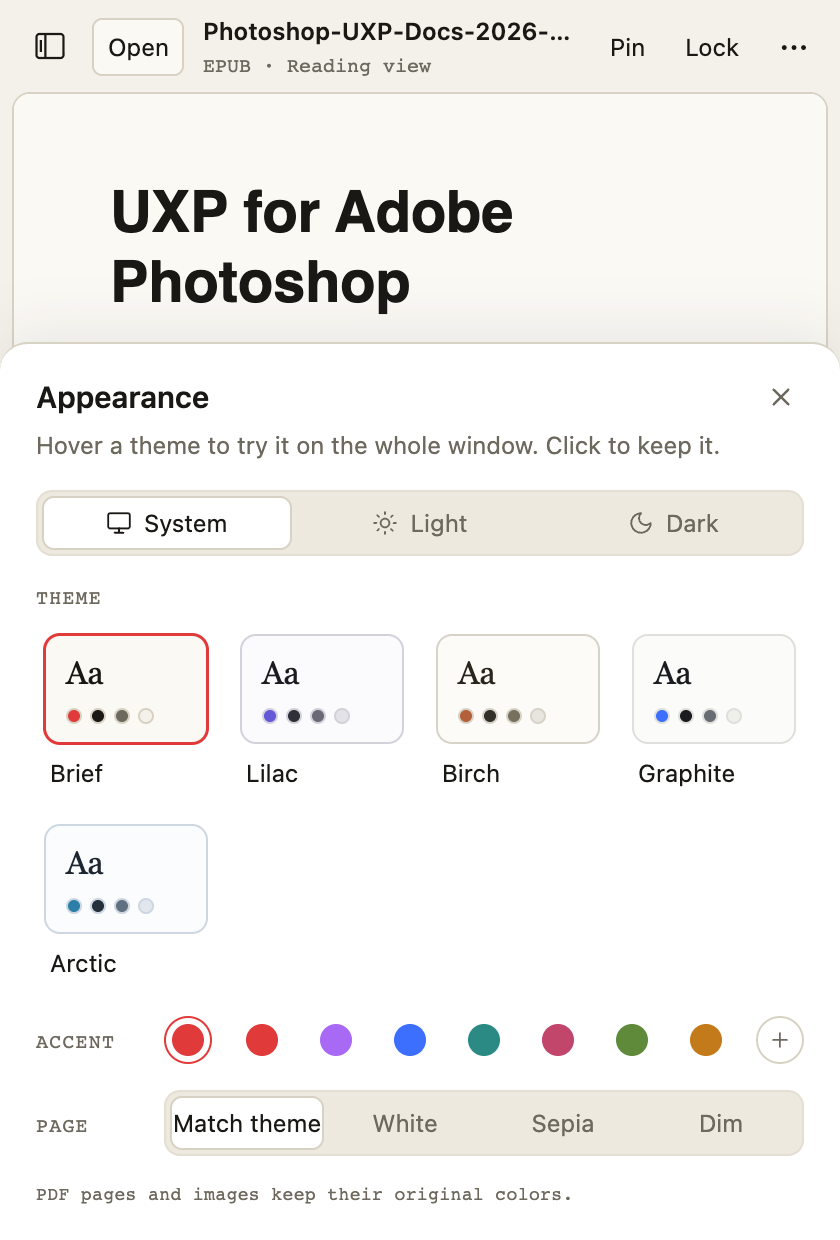
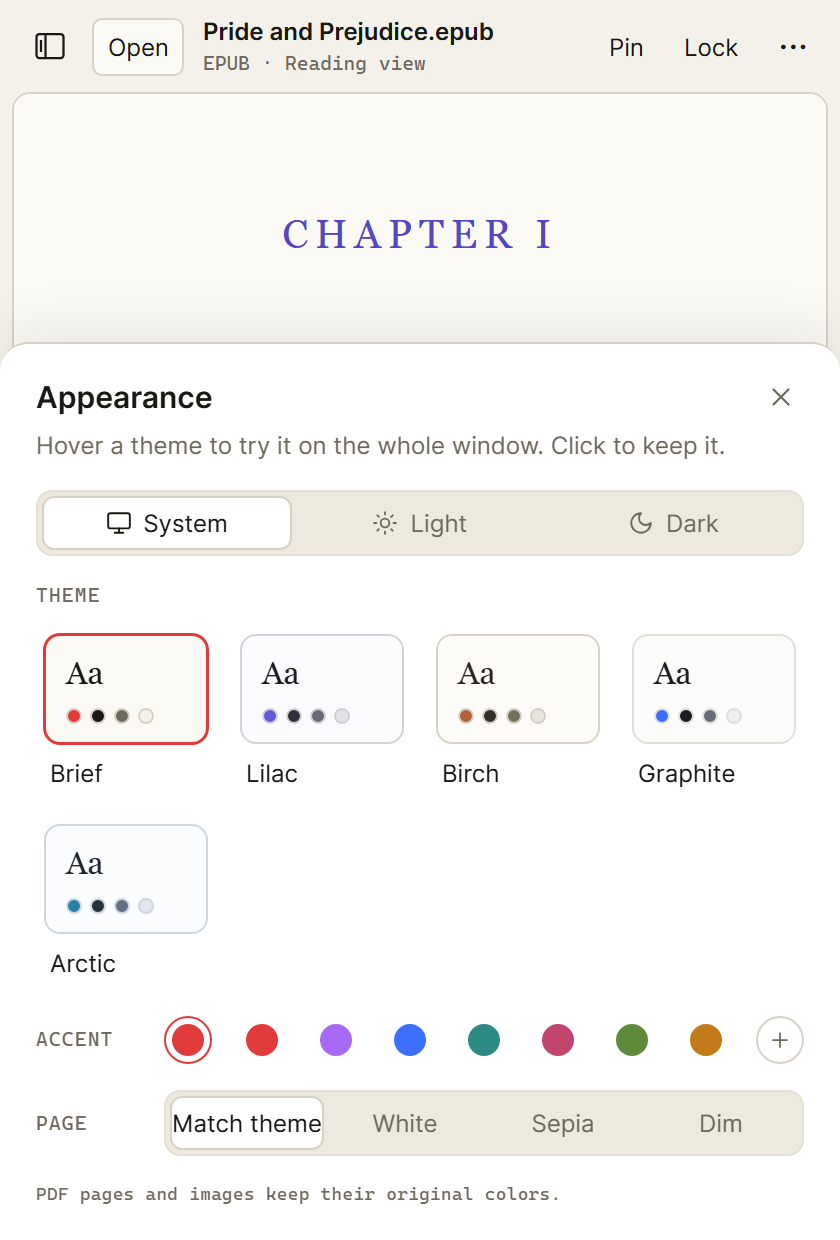
README: light-only media, real-content hero, drop the brand section
- Hero is now two real windows with documents open (a PDF spread beside the
  compact reader), composed by scripts/reshoot-media.mjs on white with square
  corners and 14 px gutters instead of a mock window in the design file.
- Every README image is light mode; dark variants, the wordmark banner and the
  separate spread/EPUB shots are removed.
- Brand section removed; the fonts note moves to the user guide.
- Media scripts take a public-domain EPUB book and fall back to Playwright's
  Chromium off macOS.

diff --git a/README.md b/README.md
@@ -1,12 +1,5 @@
 <p align="center">
-  <picture>
-    <source media="(prefers-color-scheme: dark)" srcset="docs/media/hero-dark.png">
-    <img src="docs/media/hero-light.png" alt="Hold My Brief open beside other work, showing a page of a 19th century print manual in a small reading window" width="880">
-  </picture>
-</p>
-
-<p align="center">
-  <img src="docs/media/wordmark.png" alt="Hold My Brief wordmark" width="880">
+  <img src="docs/media/hero.png" alt="Hold My Brief with a 19th century print manual open as a two-page spread, beside the compact window reading Pride and Prejudice" width="880">
 </p>
 
 <h1 align="center">Hold My Brief</h1>
@@ -89,41 +82,26 @@ computer.
 
 ## A closer look
 
-<p align="center">
-  <picture>
-    <source media="(prefers-color-scheme: dark)" srcset="docs/media/spread-dark.png">
-    <img src="docs/media/spread-light.png" alt="Pages 48 and 49 of the print manual shown side by side as an open book" width="880">
-  </picture>
-  <br><sub><b>Two-page view</b> lays out a PDF like an open book</sub>
-</p>
-
 <table>
   <tr>
-    <td align="center" width="33%"><img src="docs/media/reading-epub.png" alt="Reading an EPUB guide in the compact window"><br><sub><b>Reading a book</b> at the default 420 × 620 size</sub></td>
-    <td align="center" width="33%"><img src="docs/media/hand-tool.png" alt="A PDF page zoomed to 120% with the hand tool switched on in the floating zoom controls"><br><sub><b>Zoom in</b>, then drag the page with the hand tool</sub></td>
-    <td align="center" width="33%"><img src="docs/media/appearance.png" alt="The Appearance panel with theme cards"><br><sub><b>Appearance</b>: hover to preview, click to keep</sub></td>
+    <td align="center" width="50%"><img src="docs/media/hand-tool.png" alt="A PDF page zoomed to 120% with the hand tool switched on in the floating zoom controls"><br><sub><b>Zoom in</b>, then drag the page with the hand tool</sub></td>
+    <td align="center" width="50%"><img src="docs/media/appearance.png" alt="The Appearance panel with theme cards over a book"><br><sub><b>Appearance</b>: hover to preview, click to keep</sub></td>
   </tr>
 </table>
 
 <p align="center">
-  <picture>
-    <source media="(prefers-color-scheme: dark)" srcset="docs/media/library-dark.png">
-    <img src="docs/media/library-light.png" alt="The document library floating over a PDF, with the page unreduced behind it" width="880">
-  </picture>
+  <img src="docs/media/library.png" alt="The document library floating over a PDF, with the page unreduced behind it" width="880">
   <br><sub><b>The library</b> floats over the page. Put it on either side and the page keeps its place</sub>
 </p>
 
 <p align="center">
-  <picture>
-    <source media="(prefers-color-scheme: dark)" srcset="docs/media/library-resize-dark.gif">
-    <img src="docs/media/library-resize-light.gif" alt="The library opens over the page, is dragged wider, reset with a double-click and closed, and the page never moves" width="880">
-  </picture>
+  <img src="docs/media/library-resize.gif" alt="The library opens over the page, is dragged wider, reset with a double-click and closed, and the page never moves" width="880">
   <br><sub><b>Make it wider</b>: open the drawer, drag the divider, double-click to reset. The page never moves</sub>
 </p>
 
 <p align="center">
-  <img src="docs/media/themes.png" alt="The same page in the Brief, Lilac, Birch, Graphite and Arctic themes, light and dark" width="880">
-  <br><sub><b>Five theme families</b>, each in light and dark. Brief is the default</sub>
+  <img src="docs/media/themes.png" alt="The opening of Pride and Prejudice in the Brief, Lilac, Birch, Graphite and Arctic themes" width="880">
+  <br><sub><b>Five theme families</b>, each with a light and a dark version. Brief is the default</sub>
 </p>
 
 ## Private by design
@@ -214,28 +192,6 @@ npm run dev         # or try the interface in a browser
 | [Requirements](docs/floating-reader-prd.md) · [Research](docs/floating-reader-research-2026-10-22.md) | Why it works the way it does |
 | [Status](docs/floating-reader-implementation.md) · [Performance](docs/floating-reader-performance.md) · [macOS audit](docs/floating-reader-macos-and-performance-audit.md) | What's verified, what's measured, what's next |
 
-## Brand
-
-The identity is deliberately plain: **the mark is the name, set once.** An acid period is the only
-colour move, and everything else is paper, ink and white space.
-
-| | |
-| --- | --- |
-| **Mark** | *Hmb.* in Inter Bold (capped at 700, never heavier), capital H, acid period |
-| **Colour** | Warm paper `#F4F1EA` · true ink `#1A1815` · one acid accent `#E13A3A`, used once per composition |
-| **Brief blue** | `#7ADBFE` floods fields (posters, covers, the icon) and stays out of the interface |
-| **Type** | Inter for the interface, JetBrains Mono for the machine voice: positions, paths, statuses |
-| **Motion** | Slow enough to feel expensive: clip settles at 340 ms, ribbon marks in 500 ms, dither resolves in 900 ms |
-
-The **Brief** theme family ships all of this as the app's default appearance, and the app icon is
-the mark itself. Colour, type and motion are documented in full in the brand guidelines that
-accompany this project.
-
-**Fonts are not bundled.** The interface asks for Inter and JetBrains Mono, then falls back to the
-system faces your computer already has. Nothing is downloaded to render the UI, which keeps the
-promise that the app works offline and never phones home. Install Inter and JetBrains Mono if you
-want the interface set exactly as designed.
-
 ## Credits
 
 The look and theme system are inspired by [Tern](https://stencil.so/tern) by
@@ -244,12 +200,10 @@ picker that previews on hover shaped Hold My Brief's Appearance panel. The Graph
 the default palette in [Tern's published theme tokens](https://docs.stencil.so/tern/styles/variables.html).
 Thank you to the Stencil team.
 
-The screenshots read freely redistributable documents: *The Half-Tone Process* (1895), a
-public-domain print manual scanned by the [Internet Archive](https://archive.org/details/halftoneprocessp00verf_0);
-Adobe's Photoshop UXP guide, published under the Apache License 2.0; and, for the theme sheet,
-the public-domain opening of *Pride and Prejudice*. No in-copyright scans are committed to this
-repository. `scripts/reshoot-media.mjs` regenerates the set from documents you supply, and the
-hero image is composed from those shots in the design file.
+The screenshots read public-domain documents: *The Half-Tone Process* (1895), a print manual
+scanned by the [Internet Archive](https://archive.org/details/halftoneprocessp00verf_0), and
+Jane Austen's *Pride and Prejudice*. No in-copyright scans are committed to this repository.
+`scripts/reshoot-media.mjs` regenerates every still, the hero included, from documents you supply.
 
 ## License
 

diff --git a/docs/development.md b/docs/development.md
@@ -107,22 +107,22 @@ the NSIS installer on Windows, and bundles the `.app` on macOS.
 
 ## README media
 
-The screenshots in `docs/media/` come from `scripts/reshoot-media.mjs`. Start the browser preview
-(`npm run dev`, port 1420), then pass a public-domain PDF and a permissively licensed EPUB. Pick a PDF
-with a text layer: scanned pages without one carry an "Image-only page" note
+Every image in `docs/media/` is light mode, Brief theme, and comes from a script. Start the browser
+preview (`npm run dev`, port 1420), then pass a public-domain PDF and a public-domain EPUB book. Pick
+a PDF with a text layer: scanned pages without one carry an "Image-only page" note
 ([#16](https://github.com/RVYNP/hold-my-brief/issues/16)) that would land in every shot.
 
 ```bash
-node scripts/reshoot-media.mjs halftoneprocessp00verf_0.pdf Photoshop-UXP-Docs.epub
+node scripts/reshoot-media.mjs halftoneprocessp00verf_0.pdf "Pride and Prejudice.epub"
 ```
 
-It writes every still the README uses except the hero, including the five-family theme sheet, which
-it builds from the public-domain opening of *Pride and Prejudice*. The hero is a composite made in
-the design file (`floatreader.pen`, Hero frame of the README mock): the script writes the
-raw window shots it needs as `hero-app-light.png` and `hero-app-dark.png` (ignored by git), and the
-Hero frame is exported at 2× to `hero-light.png` and `hero-dark.png`.
+It writes every still the README uses. The hero (`hero.png`) and the five-family theme sheet
+(`themes.png`) are composed in the script: real window captures set in one row on white with 14 px
+gutters and square corners. The theme sheet reads the public-domain opening of *Pride and Prejudice*.
+On macOS the scripts use the pinned Chrome for Testing build; elsewhere they fall back to
+Playwright's Chromium (`npx playwright install chromium`).
 
-The animated library demo (`library-resize-light.gif` and `library-resize-dark.gif`) comes from
+The animated library demo (`library-resize.gif`) comes from
 `node scripts/record-library-demo.mjs halftoneprocessp00verf_0.pdf`. It drives the real interface
 with a drawn cursor, steps every CSS animation one frame at a time so each run is identical, and
 encodes with ffmpeg's two-pass palette (Homebrew's build; set `FFMPEG` to use another).

diff --git a/docs/user-guide.md b/docs/user-guide.md
@@ -38,6 +38,10 @@ Open the menu and choose **Appearance…** to open the Appearance panel at the b
 Choices are saved on this computer and applied before the window first paints, so there is no flash
 of the wrong theme. The native title bar follows the light or dark mode.
 
+Fonts are not bundled. The interface asks for Inter and JetBrains Mono and falls back to the system
+faces your computer already has, so nothing is downloaded to draw the window. Install both fonts if
+you want the interface set exactly as designed.
+
 The theme design is inspired by [Tern](https://stencil.so/tern) by Stencil, and the Graphite theme
 uses Tern's default palette. See [Credits](../README.md#credits).
 
